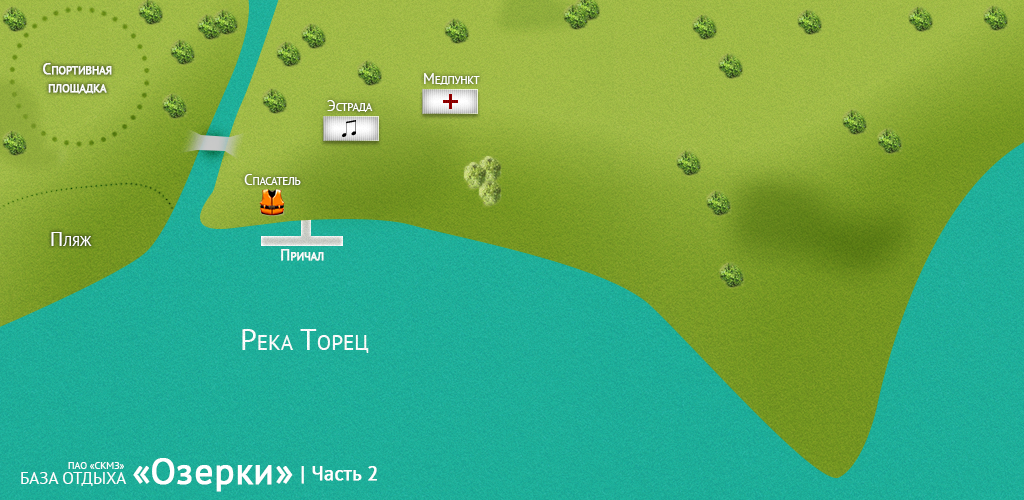
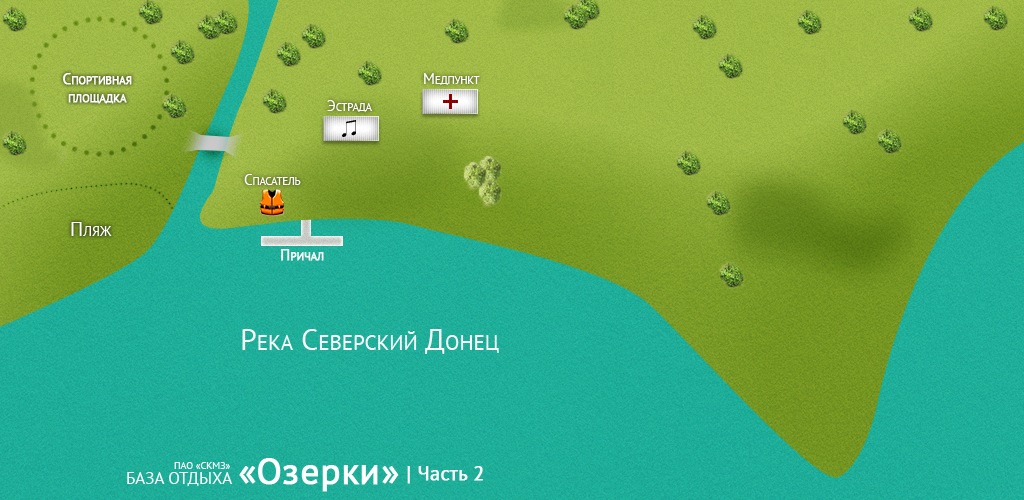
- some fixes in map

diff --git a/app/assets/stylesheets/style.css.scss b/app/assets/stylesheets/style.css.scss
@@ -473,7 +473,7 @@ nav.pagination{
 
   .dynamic-map{
     min-height: 500px;
-    background: url(ozerki_layout.png) no-repeat top center;
+    background: url(ozerki_2.png) no-repeat top center;
     margin: 10px 0;
     position: relative;
 
